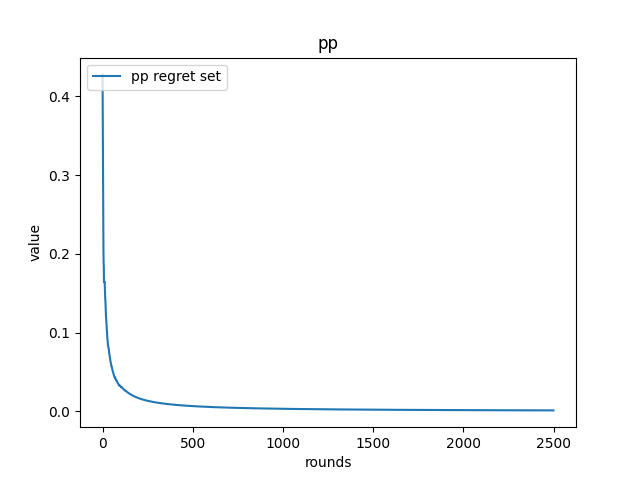
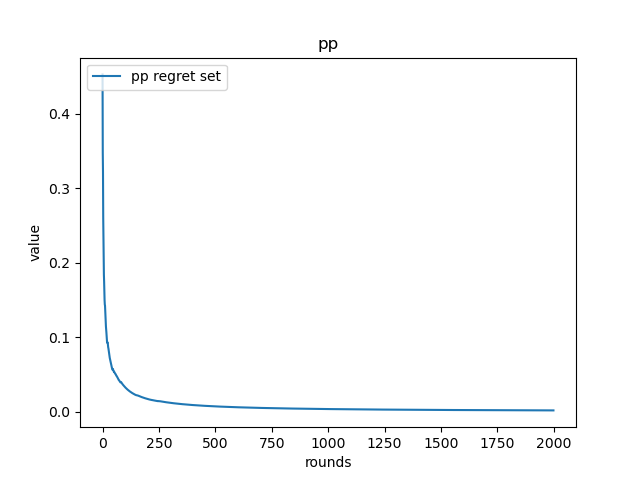
noisy reward

diff --git a/simulator.py b/simulator.py
@@ -27,8 +27,6 @@ reading_constrain = [0, 1, 2, 3, 4]
 # Will be changed to 24*60/30 = 48 for 30 minutes slots for day implementation
 number_of_slots = 5
 
-# For generating the preference for each event in each slot.
-
 
 def preferenceGenerator(calendar):
     preference_count = 0
@@ -196,7 +194,7 @@ def plot_2_data_sets_with_error_bar(rounds, algo_1_name, dataset_1, std_err_data
     plt.close()
 
 
-def simulation(rounds=int(2500)):
+def simulation(rounds=int(2000)):
     ucb_reward_dataset = []
     ucb_regret_dataset = []
     ucb_reward_over_t = []
@@ -226,6 +224,7 @@ def simulation(rounds=int(2500)):
     # initialize weights for perceptron
     num_features = len(relevant_events)*number_of_slots
     w = np.zeros(num_features)
+    printed = False
 
     # Rounds of simulations
     for t in range(rounds):
@@ -264,14 +263,20 @@ def simulation(rounds=int(2500)):
         # print("ucb human reward=", ucb_human_reward)
 
         # update the reward based on the human rating + random simulated noise
-        ucb_noisy_reward = ucb_human_reward + \
-            np.random.normal(loc=0.0, scale=0.1)
+        # ucb_noisy_reward = ucb_human_reward + \
+        #     np.random.normal(loc=0.0, scale=0.1)
+
+        # test noise
+        ucb_noisy_reward = ucb_human_reward + np.random.normal(loc=0.0, scale=0.01)
+        # ucb_noisy_reward = ucb_human_reward + np.random.normal(loc=0.0, scale=0.1)
+        # ucb_noisy_reward = ucb_human_reward + np.random.normal(loc=0.0, scale=0.5)
+        # ucb_noisy_reward = ucb_human_reward + np.random.normal(loc=0.0, scale=1)
         # ucb_noisy_reward = ucb_human_reward
         # print("ucb noisy reward=", ucb_noisy_reward)
 
         # getting the regression number: how far away from the best possible reward?
-        # regret_number = best_possible_reward-ucb_noisy_reward
-        regret_number = best_possible_reward-ucb_human_reward
+        regret_number = best_possible_reward-ucb_noisy_reward
+        # regret_number = best_possible_reward-ucb_human_reward
         # print("ucb regression_number=", regret_number)
 
         # update the algorithm based on the reward
@@ -283,6 +288,9 @@ def simulation(rounds=int(2500)):
         # print("\nucb total_reward=", ucb_total_reward)
         ucb_total_regret += regret_number
         # print("ucb total_regret=", ucb_total_regret)
+
+        if ucb_total_regret/float(t+1) <= 0.05 and ucb_total_regret/float(t+1) > 0:
+            print("round = ", t, " UCB: ", ucb_total_regret/float(t+1))
 
         # store the reward for plotting
         ucb_reward_dataset.append(ucb_total_reward)
@@ -400,15 +408,15 @@ def main():
         reward_over_t_std_err_pp, regret_over_t_std_err_pp = calculation_and_plotting(rep, rounds, pp_reward_dataset,
                                                                                       pp_regret_dataset, pp_reward_over_t_dataset,
                                                                                       pp_regret_over_t_dataset, 'pp')
-    plot_2_data_sets(regret_avg_ucb, regret_avg_pp, 'UCB', 'PP',
-                     'Regret Comparison', 'regret_comparison.png')
-    plot_2_data_sets(regret_over_t_avg_ucb, regret_over_t_avg_pp, 'UCB',
-                     'PP', 'Regret Decay Comparison', 'regret_over_t_comparison.png')
+    # plot_2_data_sets(regret_avg_ucb, regret_avg_pp, 'UCB', 'PP',
+    #                  'Regret Comparison', 'regret_comparison.png')
+    # plot_2_data_sets(regret_over_t_avg_ucb, regret_over_t_avg_pp, 'UCB',
+    #                  'PP', 'Regret Decay Comparison', 'regret_over_t_comparison.png')
 
-    plot_2_data_sets_with_error_bar(rounds, 'UCB', regret_avg_ucb, regret_std_err_ucb, 'PP', regret_avg_pp, regret_std_err_pp,
-                                    'rounds', 'value', 'Regret Comparison with Error Bar', 'regret_comparison_with_error_bar.png')
-    plot_2_data_sets_with_error_bar(rounds, 'UCB', regret_over_t_avg_ucb, regret_over_t_std_err_ucb, 'PP', regret_over_t_avg_pp,
-                                    regret_over_t_std_err_pp, 'rounds', 'value', 'Regret Decay Comparison with Error Bar', 'regret_over_t_comparison_with_error_bar.png')
+    # plot_2_data_sets_with_error_bar(rounds, 'UCB', regret_avg_ucb, regret_std_err_ucb, 'PP', regret_avg_pp, regret_std_err_pp,
+    #                                 'rounds', 'value', 'Regret Comparison with Error Bar', 'regret_comparison_with_error_bar.png')
+    # plot_2_data_sets_with_error_bar(rounds, 'UCB', regret_over_t_avg_ucb, regret_over_t_std_err_ucb, 'PP', regret_over_t_avg_pp,
+    #                                 regret_over_t_std_err_pp, 'rounds', 'value', 'Regret Decay Comparison with Error Bar', 'regret_over_t_comparison_with_error_bar.png')
 
 
 if __name__ == "__main__":
